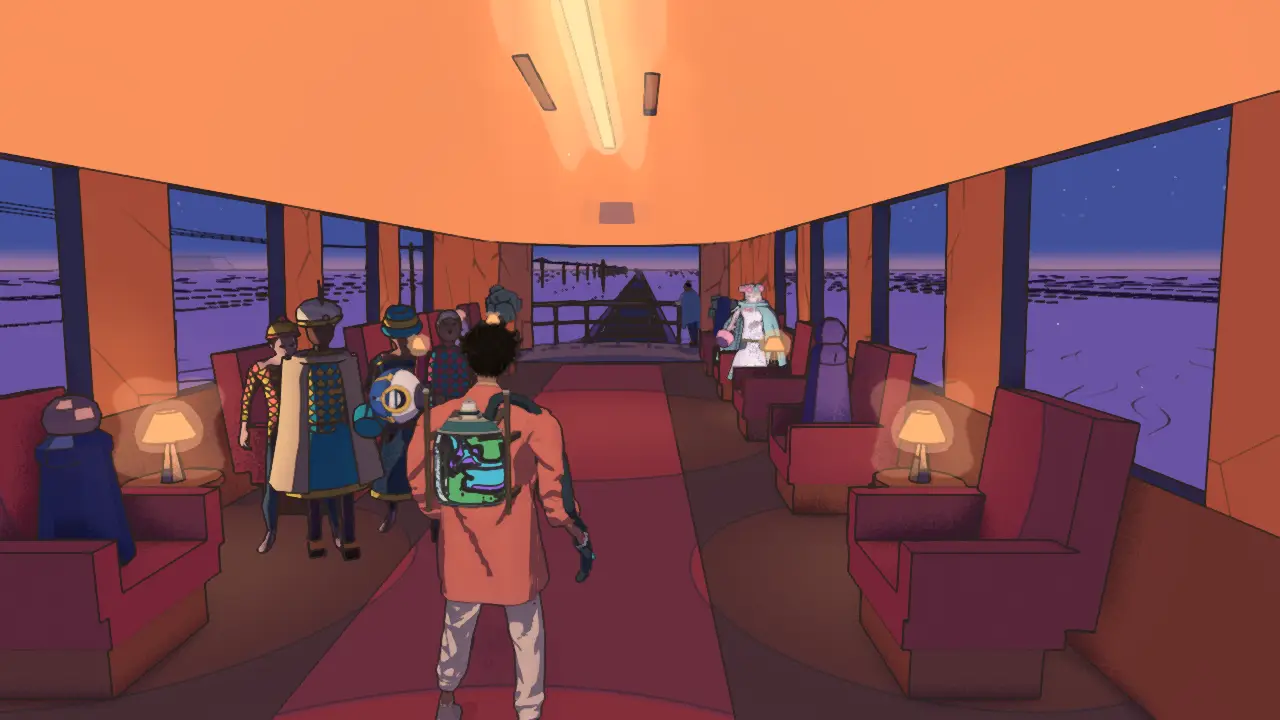
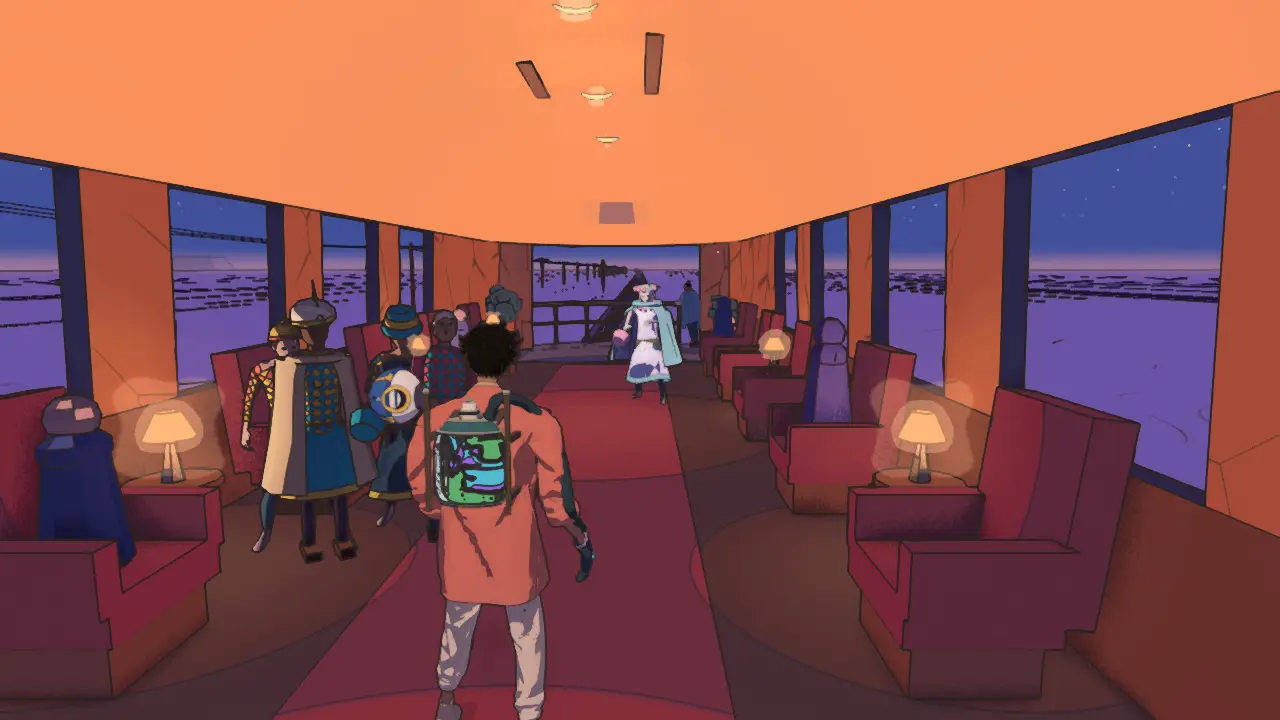
The Overnight Train: round ceiling lamps instead of the strip whose bloom drew a beam down the dining car; the terrace's brackets off the library's ceiling
A glowing strip the length of each carriage's ceiling, seen end on down the aisle, bloomed into one bright vertical
beam from the top of the frame down to the end door (the dining car, the library, the lounge, the sky lounge). The
ceilings carry round lamps every 3.2 m instead (ceilingLamp). The roof terrace's brackets reached down through the
roof into the library's ceiling as black stubs: each now stands on the roof's curve where it is. The interiors
re-shot (lounge, dining, sleepers, library, sky lounge, balcony, terrace); the changelog's pictures of them taken
again, a before / after of the dining car for the fix's line (0.87), the library's picture added.

diff --git a/src/levels/overnight-train-kit.js b/src/levels/overnight-train-kit.js
@@ -424,6 +424,9 @@ export function porch(x, dir, { y0 = TR.floor, d = TR.gap / 2, half = TR.half, l
 }
 
 // ------------------------------------------------------------------ furniture
+/** A round lamp hung flush under a ceiling at (x, y, z), r m across: a flattened glowing dome. */
+export const ceilingLamp = (x, y, z, r = 0.22) => new THREE.SphereGeometry(r, 10, 5, 0, TAU, 0, Math.PI / 2).scale(1, -0.45, 1).translate(x, y - 0.01, z);
+
 /** An armchair at (x, y, z) facing yaw (its front toward yaw's +z): seat, back, arms. { plush: [geo], wood: [geo] }. */
 export function armchair(x, y, z, yaw = 0, { w = 0.8, back = 0.95 } = {}) {
   const out = {}, at = (g) => g.rotateY(yaw).translate(x, y, z);
@@ -741,7 +744,9 @@ function skyLounge(kit, M, rng, { x0, x1, xc, L, detail, res, S }) {
   const dx0 = x0 + 0.4, dx1 = x1 - 0.4;
   kit.add(M.plank, new THREE.BoxGeometry(dx1 - dx0, 0.18, wd).translate((dx0 + dx1) / 2, yd - 0.09, 0), S);
   // (its brackets down onto the curve of the roof)
-  for (let x = dx0 + 1; x < dx1; x += 3) for (const s of [-1, 1]) kit.add(M.iron, new THREE.BoxGeometry(0.1, 0.9, 0.1).translate(x, yd - 0.6, s * (wd / 2 - 0.3)), SH);
+  // (each stands on the roof's curve where it is, never through it into the library's ceiling below)
+  { const P = profile(), zb = wd / 2 - 0.3, f = Math.acos(Math.pow(Math.min(1, zb / (P.half - 0.06)), 1 / 0.9)), yr = TR.floor + P.head + (P.crown - P.head) * Math.sin(f), h = yd - 0.18 - yr;
+    if (h > 0.05) for (let x = dx0 + 1; x < dx1; x += 3) for (const s of [-1, 1]) kit.add(M.iron, new THREE.BoxGeometry(0.1, h + 0.04, 0.1).translate(x, yr + h / 2, s * zb), SH); }
   // the railing round the deck (open where the walk comes on at each end)
   const rail = (a, b) => { kit.add(M.brass, rodGeo(a.clone().setY(yd + 1.0), b.clone().setY(yd + 1.0), 0.04), S); kit.add(M.brass, rodGeo(a.clone().setY(yd + 0.5), b.clone().setY(yd + 0.5), 0.025), S); };
   for (const s of [-1, 1]) { rail(V(dx0, 0, s * (wd / 2 - 0.06)), V(dx1, 0, s * (wd / 2 - 0.06))); for (let x = dx0; x <= dx1 + 0.01; x += 1.5) kit.add(M.brass, rodGeo(V(x, yd, s * (wd / 2 - 0.06)), V(x, yd + 1.0, s * (wd / 2 - 0.06)), 0.03), S); }
@@ -760,7 +765,7 @@ function skyLounge(kit, M, rng, { x0, x1, xc, L, detail, res, S }) {
   const T = table(lx1 - 0.4, yd + 0.06, 0, { w: 0.6, round: true, cloth: false });
   addParts(kit, M, T, { wood: M.wood, brass: M.brass, glow: M.glow, linen: M.linen }, S);
   res.lamps.push(T.lamp);
-  kit.add(M.lamp, new THREE.BoxGeometry(lx1 - lx0 - 1, 0.06, 0.2).translate((lx0 + lx1) / 2, yd + P2.crown - TR.wall - 0.04, 0), NC);
+  for (let x = lx0 + 1.2; x < lx1 - 0.5; x += 2.6) kit.add(M.lamp, ceilingLamp(x, yd + P2.crown - TR.wall, 0, 0.18), NC);
   res.lamps.push([(lx0 + lx1) / 2, yd + 2.2, 0]);
   // the deck's garden behind the cabin: planters along the rails, a bench
   for (const s of [-1, 1]) for (const g of [planter(dx0 + 0.6, lx0 - 1, yd, s * 1.6, { seed: s + 3, w: 0.7, detail })]) { for (const p of g.pot) kit.add(M.pot, p, S); for (const p of g.shrub) kit.add(M.shrub[Math.floor(rng() * 2)], p, SH); }
@@ -826,9 +831,10 @@ export function furnishCar(kit, M, c, { x0, x1, xc, L, rng, res }, { solid = tru
   const FURN = { plush: M.plush, wood: M.wood, linen: M.linen, brass: M.brass, glow: M.glow, books: M.plush2, books2: M.wood2 };
   const lamp = (p, r = 6) => { if (!p) return; res.lamps.push(p); if (lights) kit.light(p[0], p[1], p[2], r); };
   const seats = (res.seats ??= []);
-  // the ceiling's lamp strip down the middle (seen as light through the windows from outside)
+  // round lamps along the ceiling's middle (seen as light through the windows from outside). (One long glowing strip
+  // here drew, end on, a bright beam down the whole carriage: its bloom ran the length of it.)
   if (c.kind !== 'coach') {
-    kit.add(M.lamp, new THREE.BoxGeometry(L - 1.6, 0.05, 0.22).translate(xc, y + TR.crown - TR.wall - 0.05, 0), NC);
+    for (let x = x0 + 2; x < x1 - 1; x += 3.2) kit.add(M.lamp, ceilingLamp(x, y + TR.crown - TR.wall, 0), NC);
     for (let x = x0 + 4; x < x1 - 2; x += 8) if (lights) kit.light(x, y + 2.6, 0, 7.5);
   }
   if (c.kind === 'prow') {

diff --git a/src/changelog-media.js b/src/changelog-media.js
@@ -139,6 +139,7 @@ export const CHANGELOG_MEDIA = {
       { name: 'overnighttrain-lounge', only: 'after', caption: 'The observation lounge: armchairs and lamps down both rows of windows, the balcony at the end', from: 'the world’s own screenshots, headless Chrome, High, 22:00 (7 October)' },
       { name: 'overnighttrain-dining', only: 'after', caption: 'The dining car, its tables laid and lit, the plain running past the windows', from: 'the world’s own screenshots, headless Chrome, High, 22:00 (7 October)' },
       { name: 'overnighttrain-sleeper', only: 'after', caption: 'A sleeping car’s corridor, the compartments’ doors along it', from: 'the world’s own screenshots, headless Chrome, High, 22:00 (7 October)' },
+      { name: 'overnighttrain-library', only: 'after', caption: 'The library: shelves under the windows, sofas and lamps, the door on through to the landing wagon', from: 'the world’s own screenshots, headless Chrome, High, 22:00 (7 October)' },
       { name: 'overnighttrain-balcony', only: 'after', caption: 'On the balcony at the nose: the track and the poles coming at you out of the dark', from: 'the world’s own screenshots, headless Chrome, High, 22:00 (7 October)' },
       { name: 'overnighttrain-deck', only: 'after', caption: 'The landing wagon: the ship on its deck, the railing, people come to look', from: 'the world’s own screenshots, headless Chrome, High, 22:00 (7 October)' },
       { name: 'overnighttrain-moons', only: 'after', caption: 'From the plain beside it: the lit carriages, the two moons ahead of the train', from: 'the world’s own screenshots, headless Chrome, High, 22:00 (7 October)' },
@@ -167,6 +168,9 @@ export const CHANGELOG_MEDIA = {
       { name: 'overnighttrain-terrace', only: 'after', caption: 'The library carriage’s roof terrace, the sky lounge’s door, its pennants', from: 'the world’s own screenshots, headless Chrome, High, 22:00 (7 October)' },
     ], see: 'On a porch between two carriages, climb the ladder beside the door (or the end wall itself); the plank bridges join the roofs from the lounge back to the library, whose terrace carries the sky lounge.' },
     { match: 'The Overnight Train sounds like a train', see: 'Turn the effects up and stand at a window while the train runs: the beat of the joints keeps time with its speed, slows as it brakes into a station and stops; go out on the balcony or the roofs and the rush of the air comes up; listen for the whistle as it pulls out.' },
+    { match: 'On the Overnight Train the carriages’ ceilings have round lamps', shots: [
+      { name: 'overnighttrain-ceiling', caption: 'The dining car from its aisle: the long lamp strip’s beam down the ceiling (before), the round lamps (after)', from: 'the world’s own screenshots of the same view, headless Chrome, High, 22:00 (7 October)' },
+    ], see: 'Open ?level=overnighttrain, walk forward from the ship into the library and on to the dining car, and look down the aisle.' },
   ],
   '0.86': [
     { match: 'A new world off the route, the City Floating in Space', shots: [

diff --git a/src/changelog.js b/src/changelog.js
@@ -21,6 +21,7 @@ export const CHANGELOG = [
     'On the Overnight Train the land runs past: the sleepers under the wheels, the telegraph poles and their wires, stones, far buttes, now and then a lit hut or a signal lamp. Every few minutes it slows into a lonely station, waits, and pulls out again; pink dust rolls back from the wheels and the pennants stream in the wind.',
     'Climb the ladder on any porch of the Overnight Train and walk the roofs from carriage to carriage over plank bridges, past the roof gardens, to the terrace and its little sky lounge.',
     'The Overnight Train sounds like a train: the wheels’ beat over the rail joints, ta-dum … ta-dum, slowing to nothing at a station, the rumble underfoot, the rush of the air on the roofs and the balcony, and a whistle as it pulls out or brakes.',
+    'On the Overnight Train the carriages’ ceilings have round lamps in a row instead of one long glowing strip, which drew a bright beam down the middle of the dining car and the library; the brackets of the library’s roof terrace no longer poke through its ceiling.',
   ] },
   { v: '0.86', date: '2026-10-07', items: [
     'A new world off the route, the City Floating in Space: rounded houses in cream, salmon and coral heaped on islands in the black of space, joined by pale arched bridges, with the stars all round you, even under your feet. Cross the crowded Market Bridge to the stalls of the plaza, climb to the Towers, rest under the dark trees of the Garden, and look out from the Balcony at the great planet, which turns its lit face toward the city as night comes. Step over a parapet and you fall into the void, and come back where you last stood.',

diff --git a/docs/systems/worlds.md b/docs/systems/worlds.md
@@ -1126,7 +1126,10 @@ after references/The Overnight Train/; its kit `overnight-train-kit.js` shared w
   (instanced spokes turned by `s / r`), the pennants (their cloth waved by the speed: `pennantWave`).
 - **A thin bar must be short.** The rails were first one 9 km thin bar each: src/thin.js widens a bar to a pixel at each
   of its ends' distance, so the far end grew metres wide and its long wedge cut through the carriages (the interior
-  read as one lavender V). `railsGeo` lays them in 30 m pieces (the views too).
+  read as one lavender V). `railsGeo` lays them in 30 m pieces (the views too). Likewise a glowing strip along a
+  carriage's ceiling, seen end on down the aisle, bloomed into one bright beam from the top of the frame to the end
+  door: the ceilings carry round lamps every 3.2 m instead (`ceilingLamp`). The roof terrace's brackets stand on the
+  roof's curve where they are (they reached down through the library's ceiling).
 - **People**: Saba the Listener (Viridel) in the dining car, counting the rails' phrase; Oïa (the tower in Vael) on the
   roof terrace by the sky lounge; Sol (the Garden) in the lounge, counting stations by the cup of tea; five of the
   train's own folk (the cook, a sleeping-car attendant, a deckhand by the ship, the librarian, a passenger on the

diff --git a/changelog.md b/changelog.md
@@ -4,6 +4,7 @@ The same release notes shown in the game (press **N** or open settings).
 
 ## v0.87 — 2026-10-07
 
+- On the Overnight Train the carriages’ ceilings have round lamps in a row instead of one long glowing strip, which drew a bright beam down the middle of the dining car and the library; the brackets of the library’s roof terrace no longer poke through its ceiling.
 - The Overnight Train sounds like a train: the wheels’ beat over the rail joints, ta-dum … ta-dum, slowing to nothing at a station, the rumble underfoot, the rush of the air on the roofs and the balcony, and a whistle as it pulls out or brakes.
 - Climb the ladder on any porch of the Overnight Train and walk the roofs from carriage to carriage over plank bridges, past the roof gardens, to the terrace and its little sky lounge.
 - On the Overnight Train the land runs past: the sleepers under the wheels, the telegraph poles and their wires, stones, far buttes, now and then a lit hut or a signal lamp. Every few minutes it slows into a lonely station, waits, and pulls out again; pink dust rolls back from the wheels and the pennants stream in the wind.
